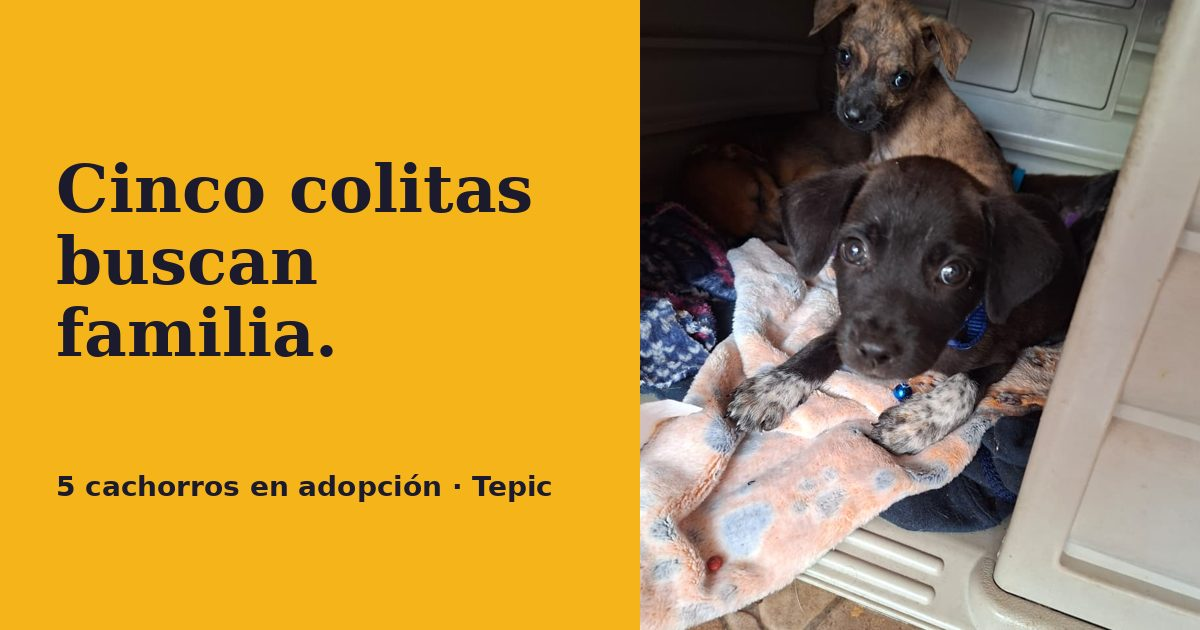
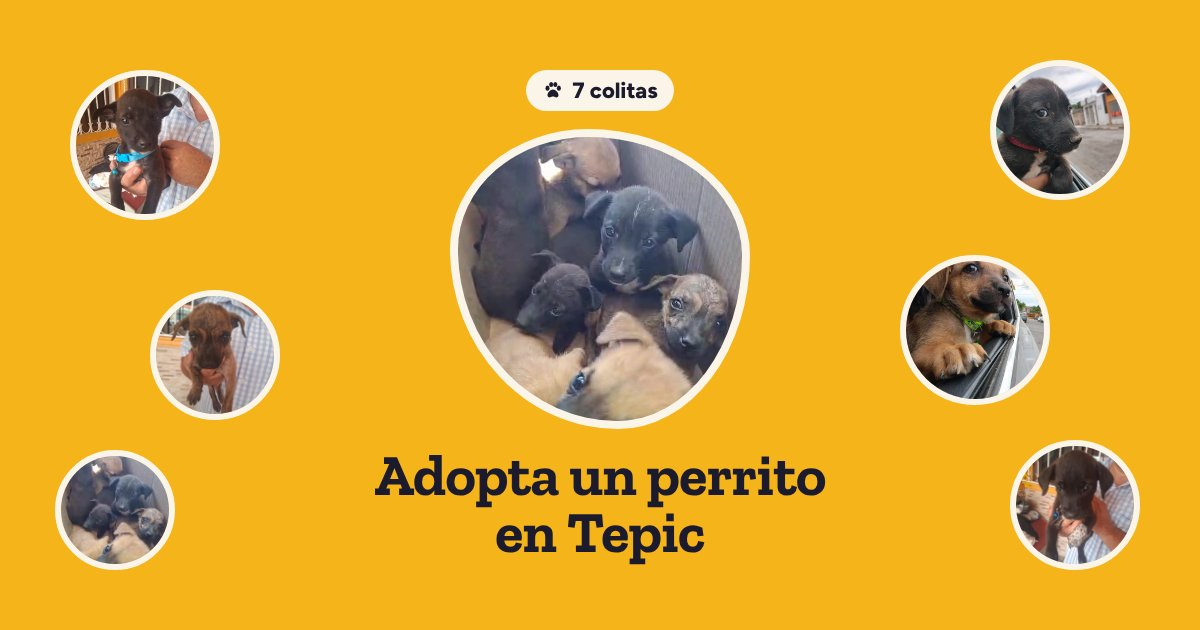
Nueva imagen de vista previa para WhatsApp, centrada para que no se corte

diff --git a/index.html b/index.html
@@ -4,15 +4,18 @@
     <meta charset="UTF-8" />
     <meta name="viewport" content="width=device-width, initial-scale=1, viewport-fit=cover" />
     <title>7 colitas · Perritos en adopción en Tepic</title>
-    <meta name="description" content="Cinco cachorros juguetones buscan una familia en Tepic. Conócelos y escríbele a Martín por WhatsApp." />
+    <meta name="description" content="Cachorros juguetones buscan una familia en Tepic. Conócelos y escríbele a Martín por WhatsApp." />
     <meta name="theme-color" content="#f4b41a" />
     <link rel="icon" type="image/svg+xml" href="/favicon.svg" />
     <link rel="preload" as="image" href="/video/portada-poster.webp" fetchpriority="high" />
     <meta property="og:type" content="website" />
     <meta property="og:locale" content="es_MX" />
     <meta property="og:title" content="7 colitas · Perritos en adopción en Tepic" />
-    <meta property="og:description" content="5 cachorros en adopción en Tepic. Conócelos y escríbele a Martín." />
-    <meta property="og:image" content="%VITE_SITE_URL%/img/og.jpg" />
+    <meta property="og:description" content="Cachorros en adopción en Tepic. Conócelos y escríbele a Martín por WhatsApp." />
+    <meta property="og:image" content="%VITE_SITE_URL%/img/og.jpg?v=2" />
+    <meta property="og:image:secure_url" content="%VITE_SITE_URL%/img/og.jpg?v=2" />
+    <meta property="og:image:type" content="image/jpeg" />
+    <meta property="og:image:alt" content="7 colitas: cachorros en adopción en Tepic" />
     <meta property="og:image:width" content="1200" />
     <meta property="og:image:height" content="630" />
     <meta property="og:url" content="%VITE_SITE_URL%/" />
